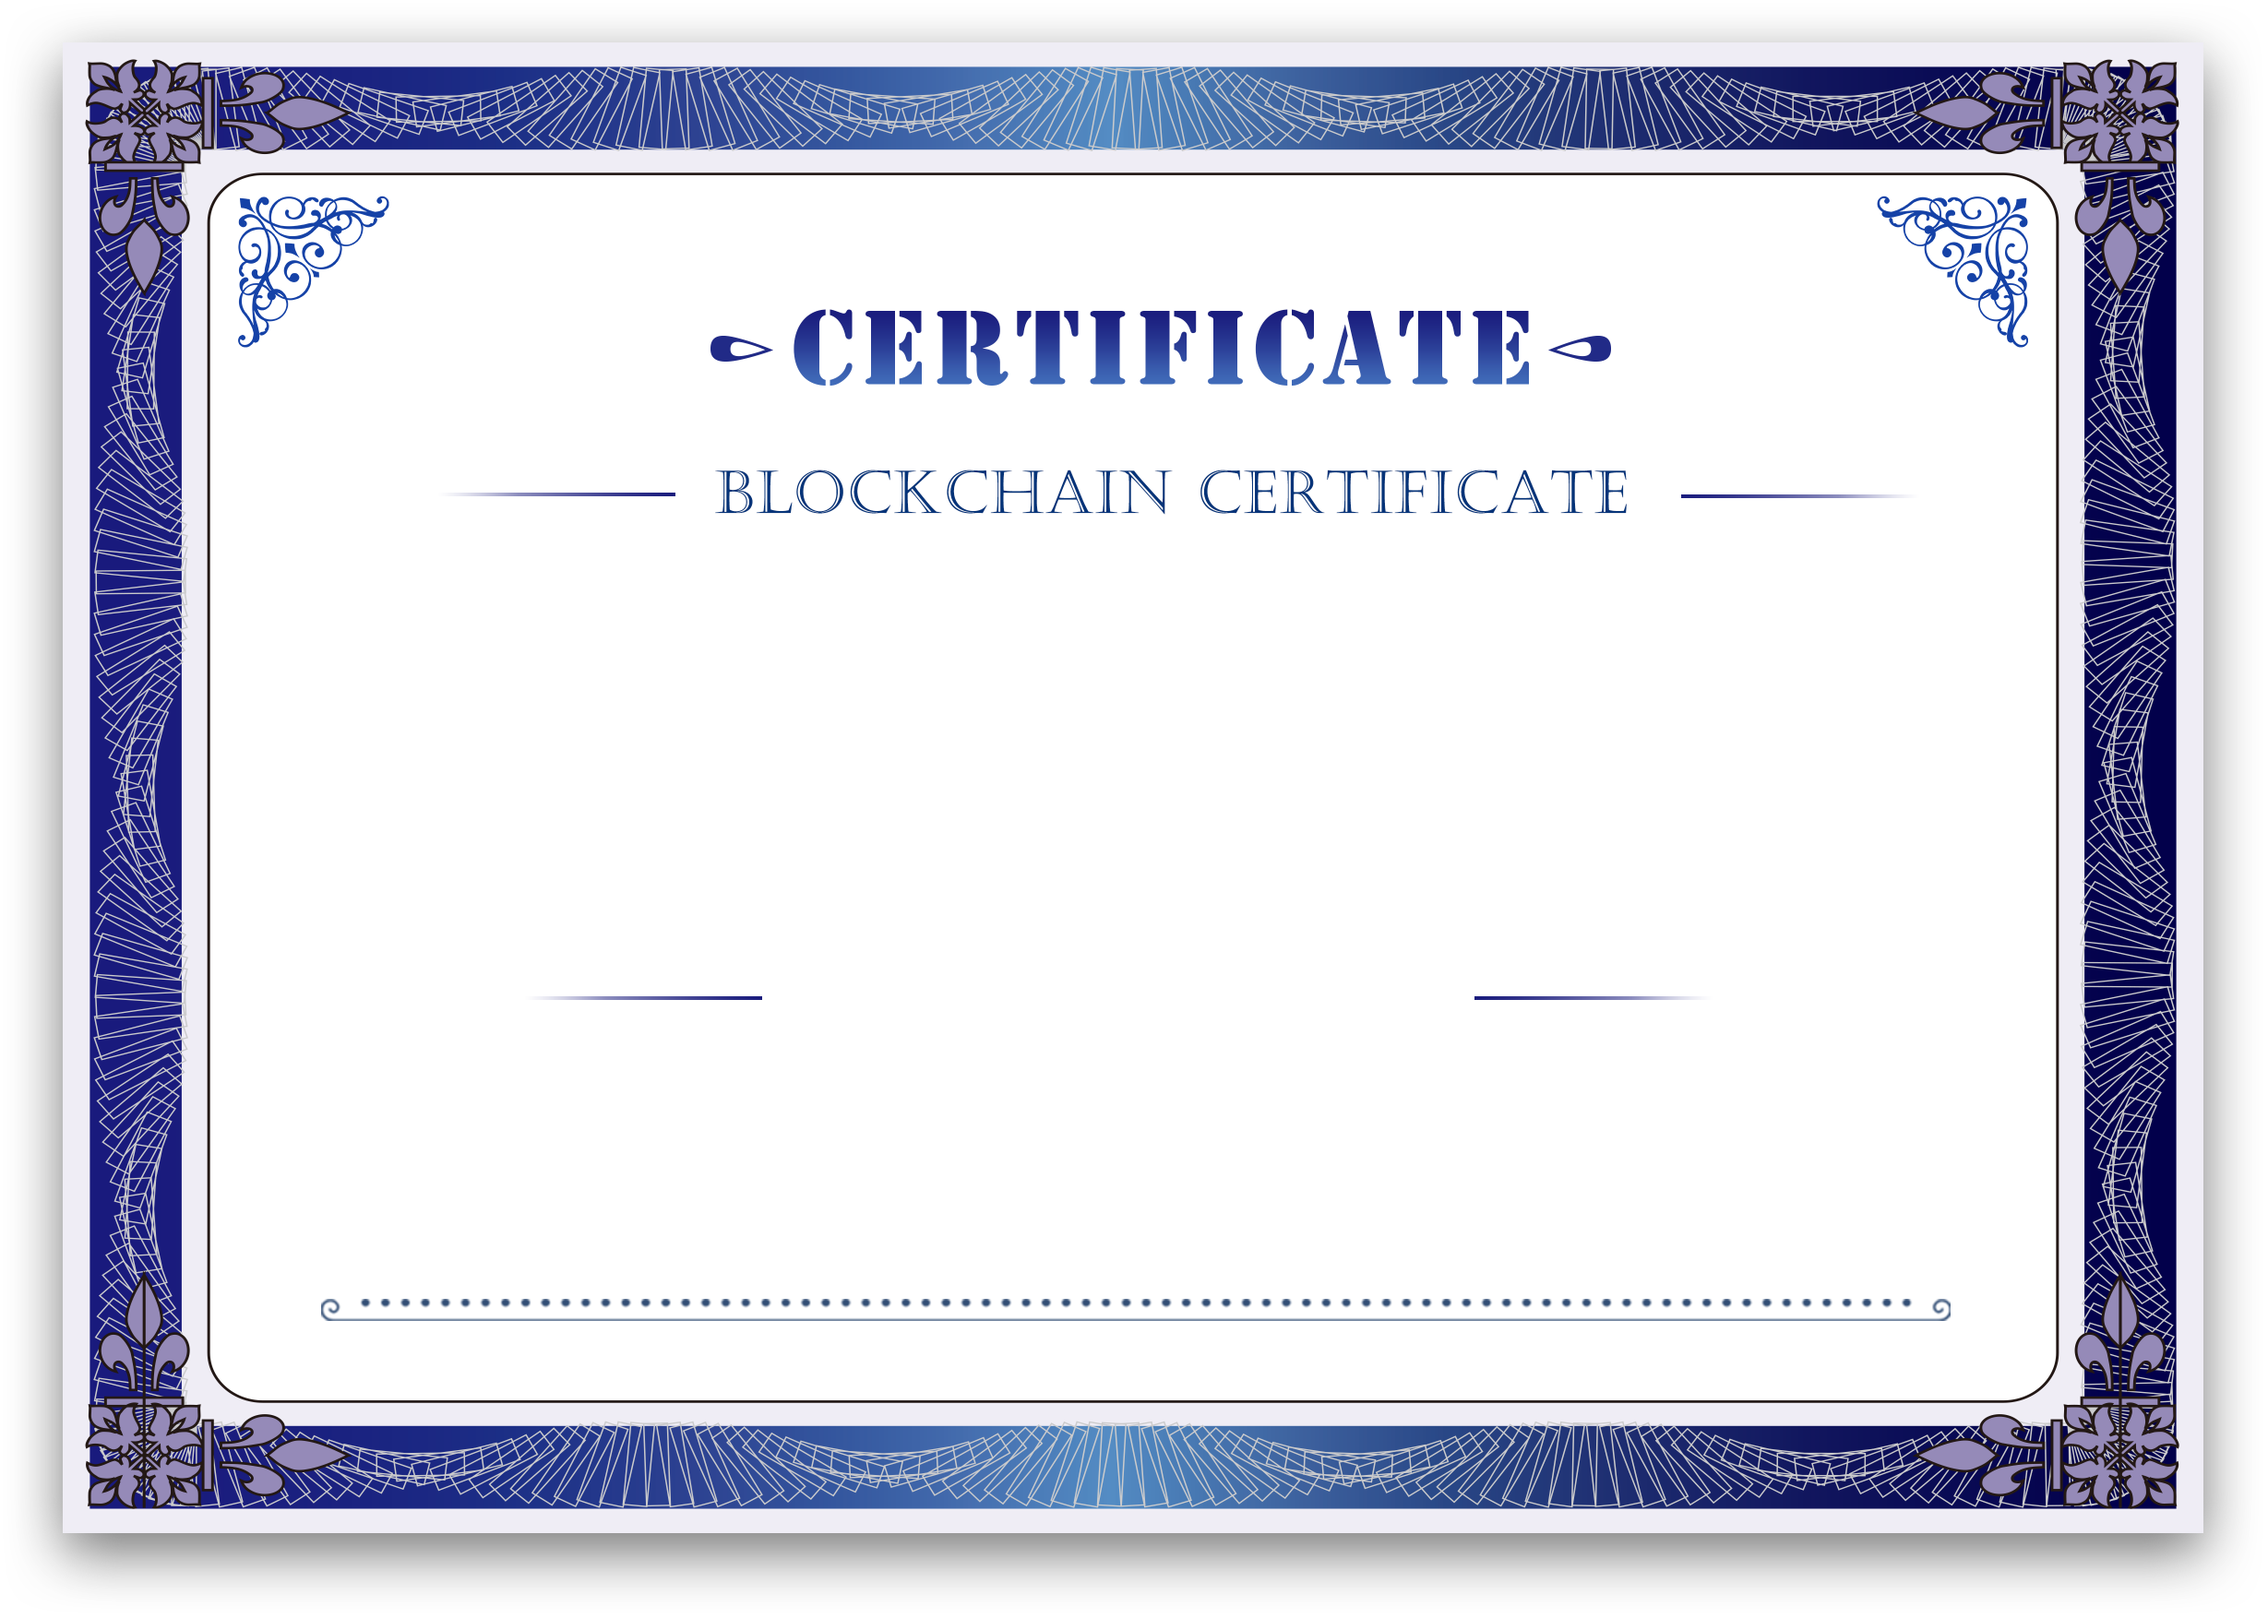
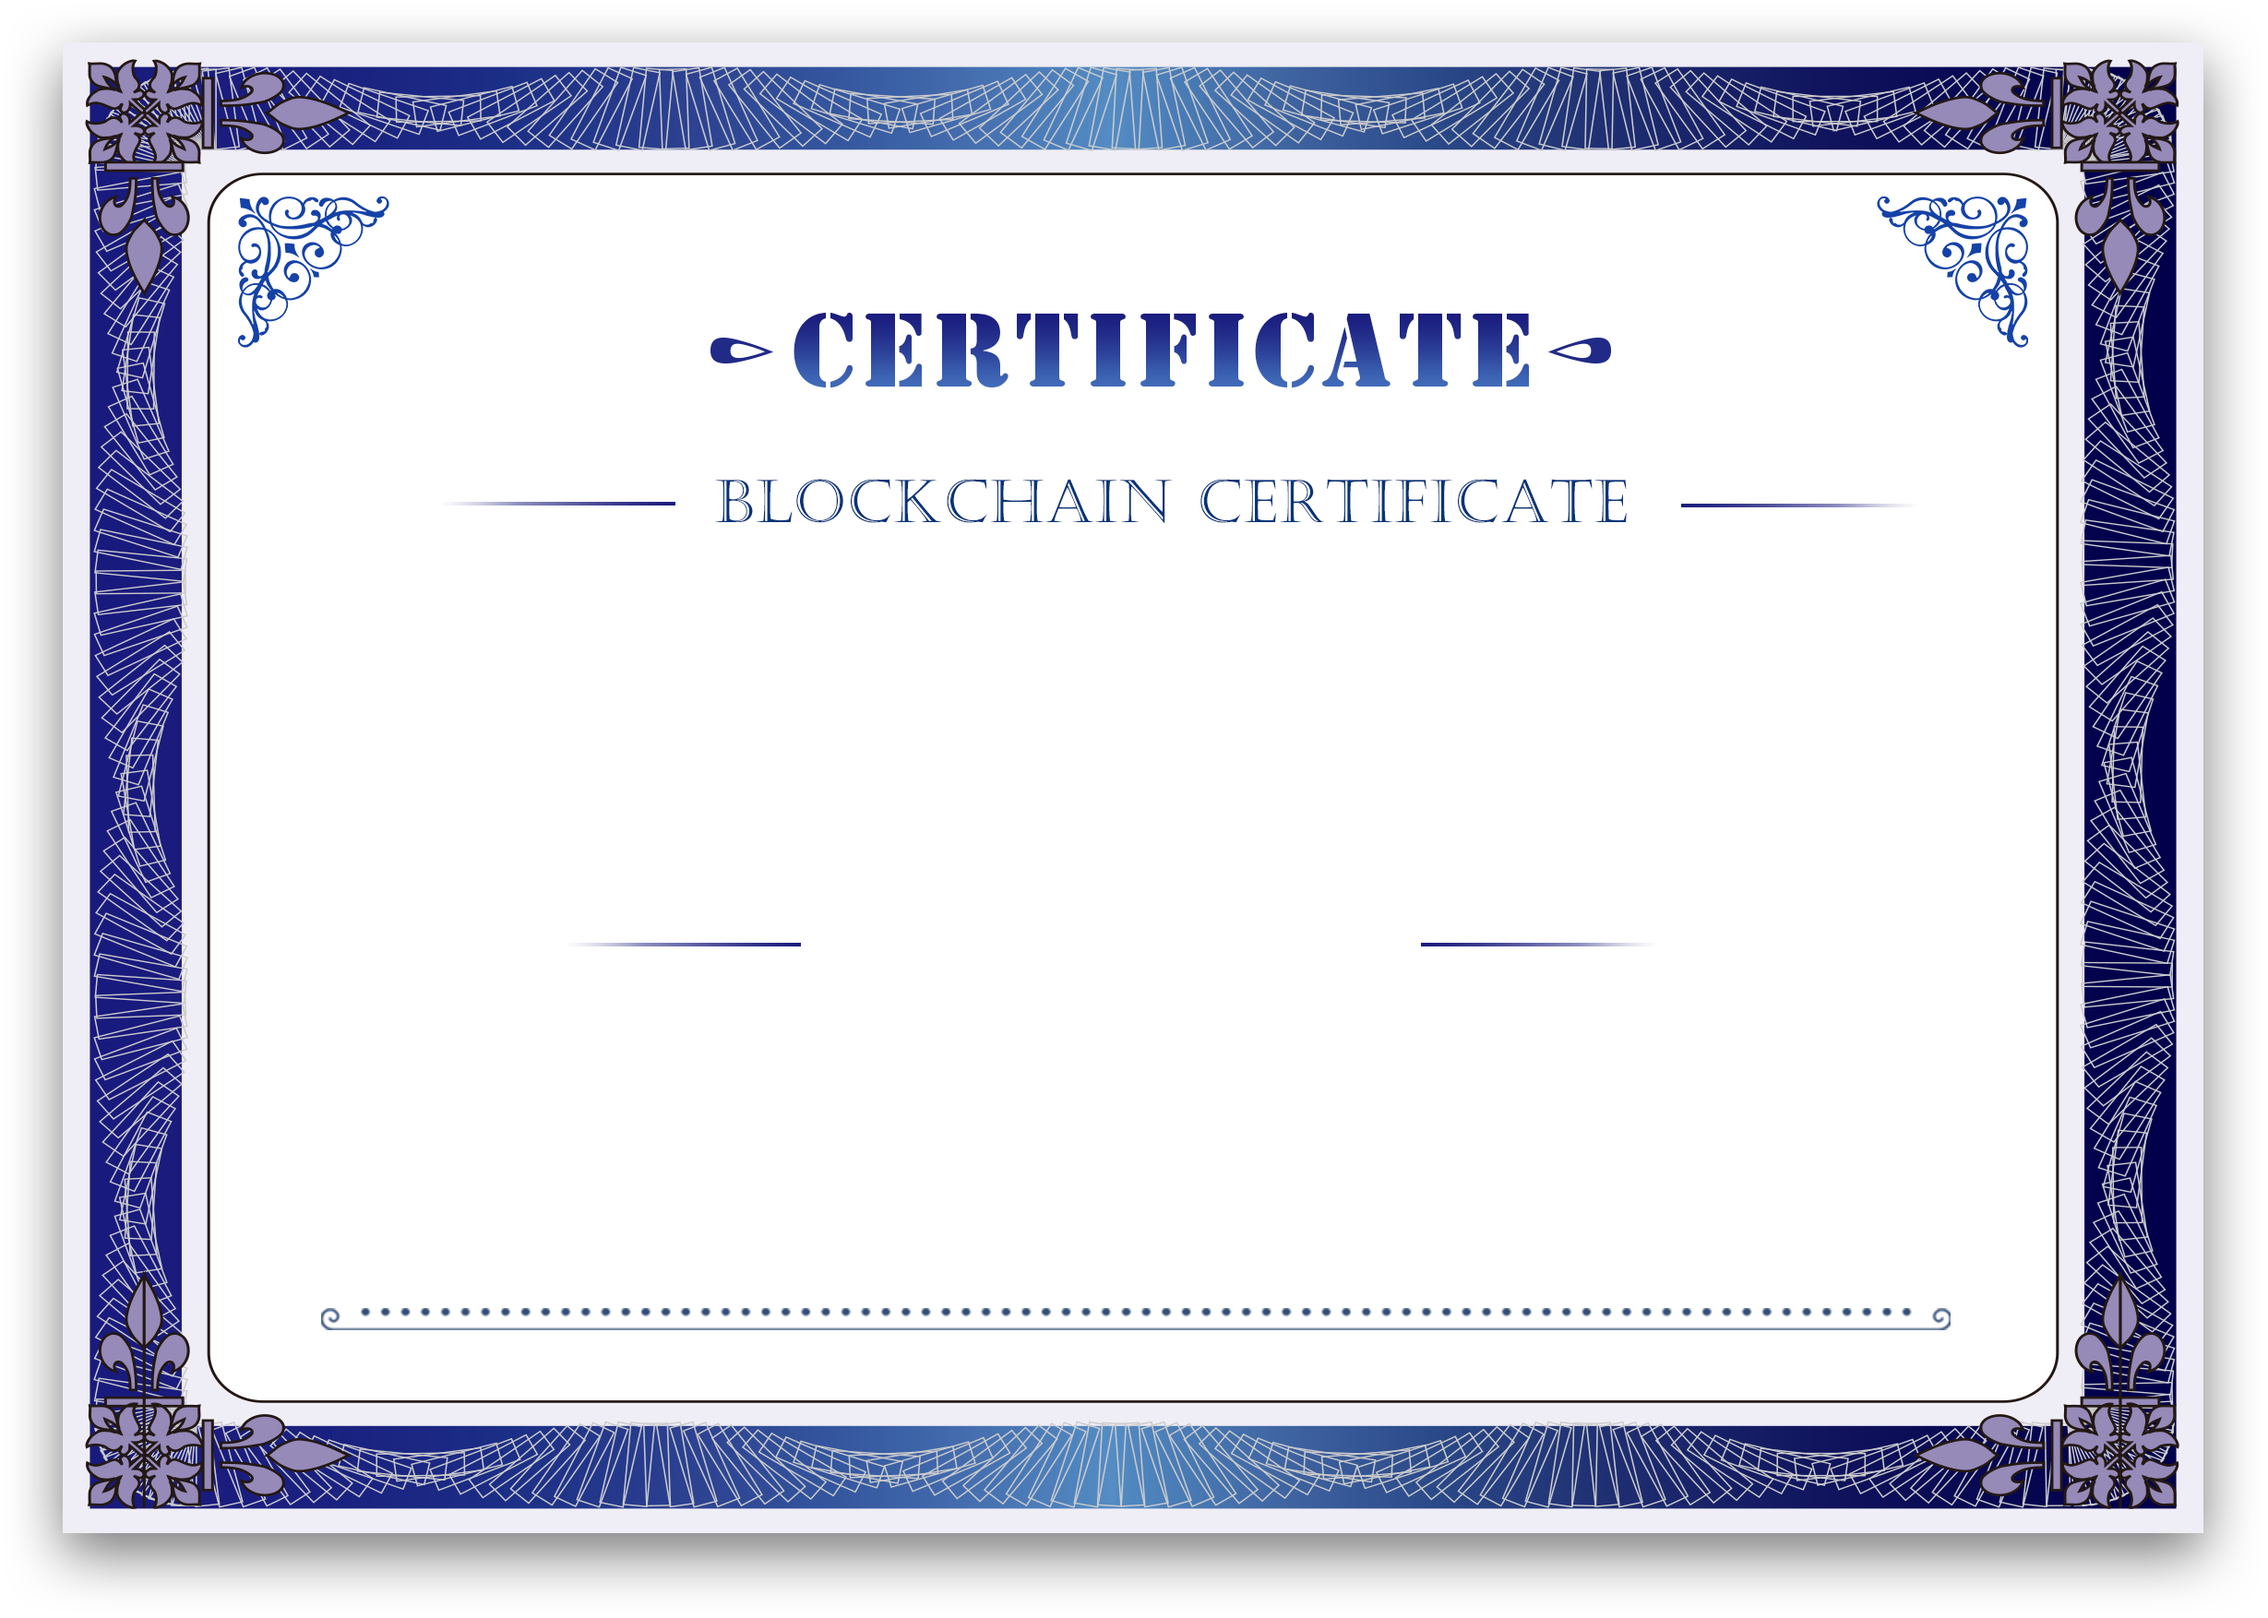
更改证书图片

diff --git a/src/components/Certificate/Dialog.vue b/src/components/Certificate/Dialog.vue
@@ -47,6 +47,11 @@
             Certificate address:
             {{ itemHash ? itemHash.toLowerCase() : "" }}
         </div>
+        <div class="logos">
+            <img src="@/assets/images/1@2x.png" />
+            <img src="@/assets/images/2@2x.png" />
+            <img src="@/assets/images/3@2x.png" />
+        </div>
     </el-dialog>
 </template>
 <script>
@@ -222,7 +227,7 @@ export default {
     display: flex;
     flex-wrap: wrap;
     justify-content: space-between;
-    top: 295px;
+    top: 280px;
     left: 230px;
     .item {
         margin-top: 20px;
@@ -257,8 +262,8 @@ export default {
 }
 .signed-time {
     position: absolute;
-    top: 480px;
-    left: 397px;
+    top: 453px;
+    left: 393px;
     font-size: 34px;
     font-family: "Monotype";
     font-weight: 400;
@@ -269,7 +274,7 @@ export default {
 }
 .address {
     position: absolute;
-    top: 570px;
+    top: 530px;
     left: 144px;
     width: 820px;
     text-overflow: ellipsis;
@@ -282,5 +287,24 @@ export default {
     color: #010034;
     line-height: 60px;
     letter-spacing: 0px;
+}
+.logos {
+    position: absolute;
+    top: 595px;
+    left: 50%;
+    transform: translateX(-50%);
+    img:nth-child(1) {
+        margin-right: 17px;
+        width: 55px;
+    }
+    img:nth-child(2) {
+        transform: translateY(2px);
+        margin-right: 17px;
+        width: 47px;
+    }
+    img:nth-child(3) {
+        transform: translateY(-1px);
+        width: 72px;
+    }
 }
 </style>
